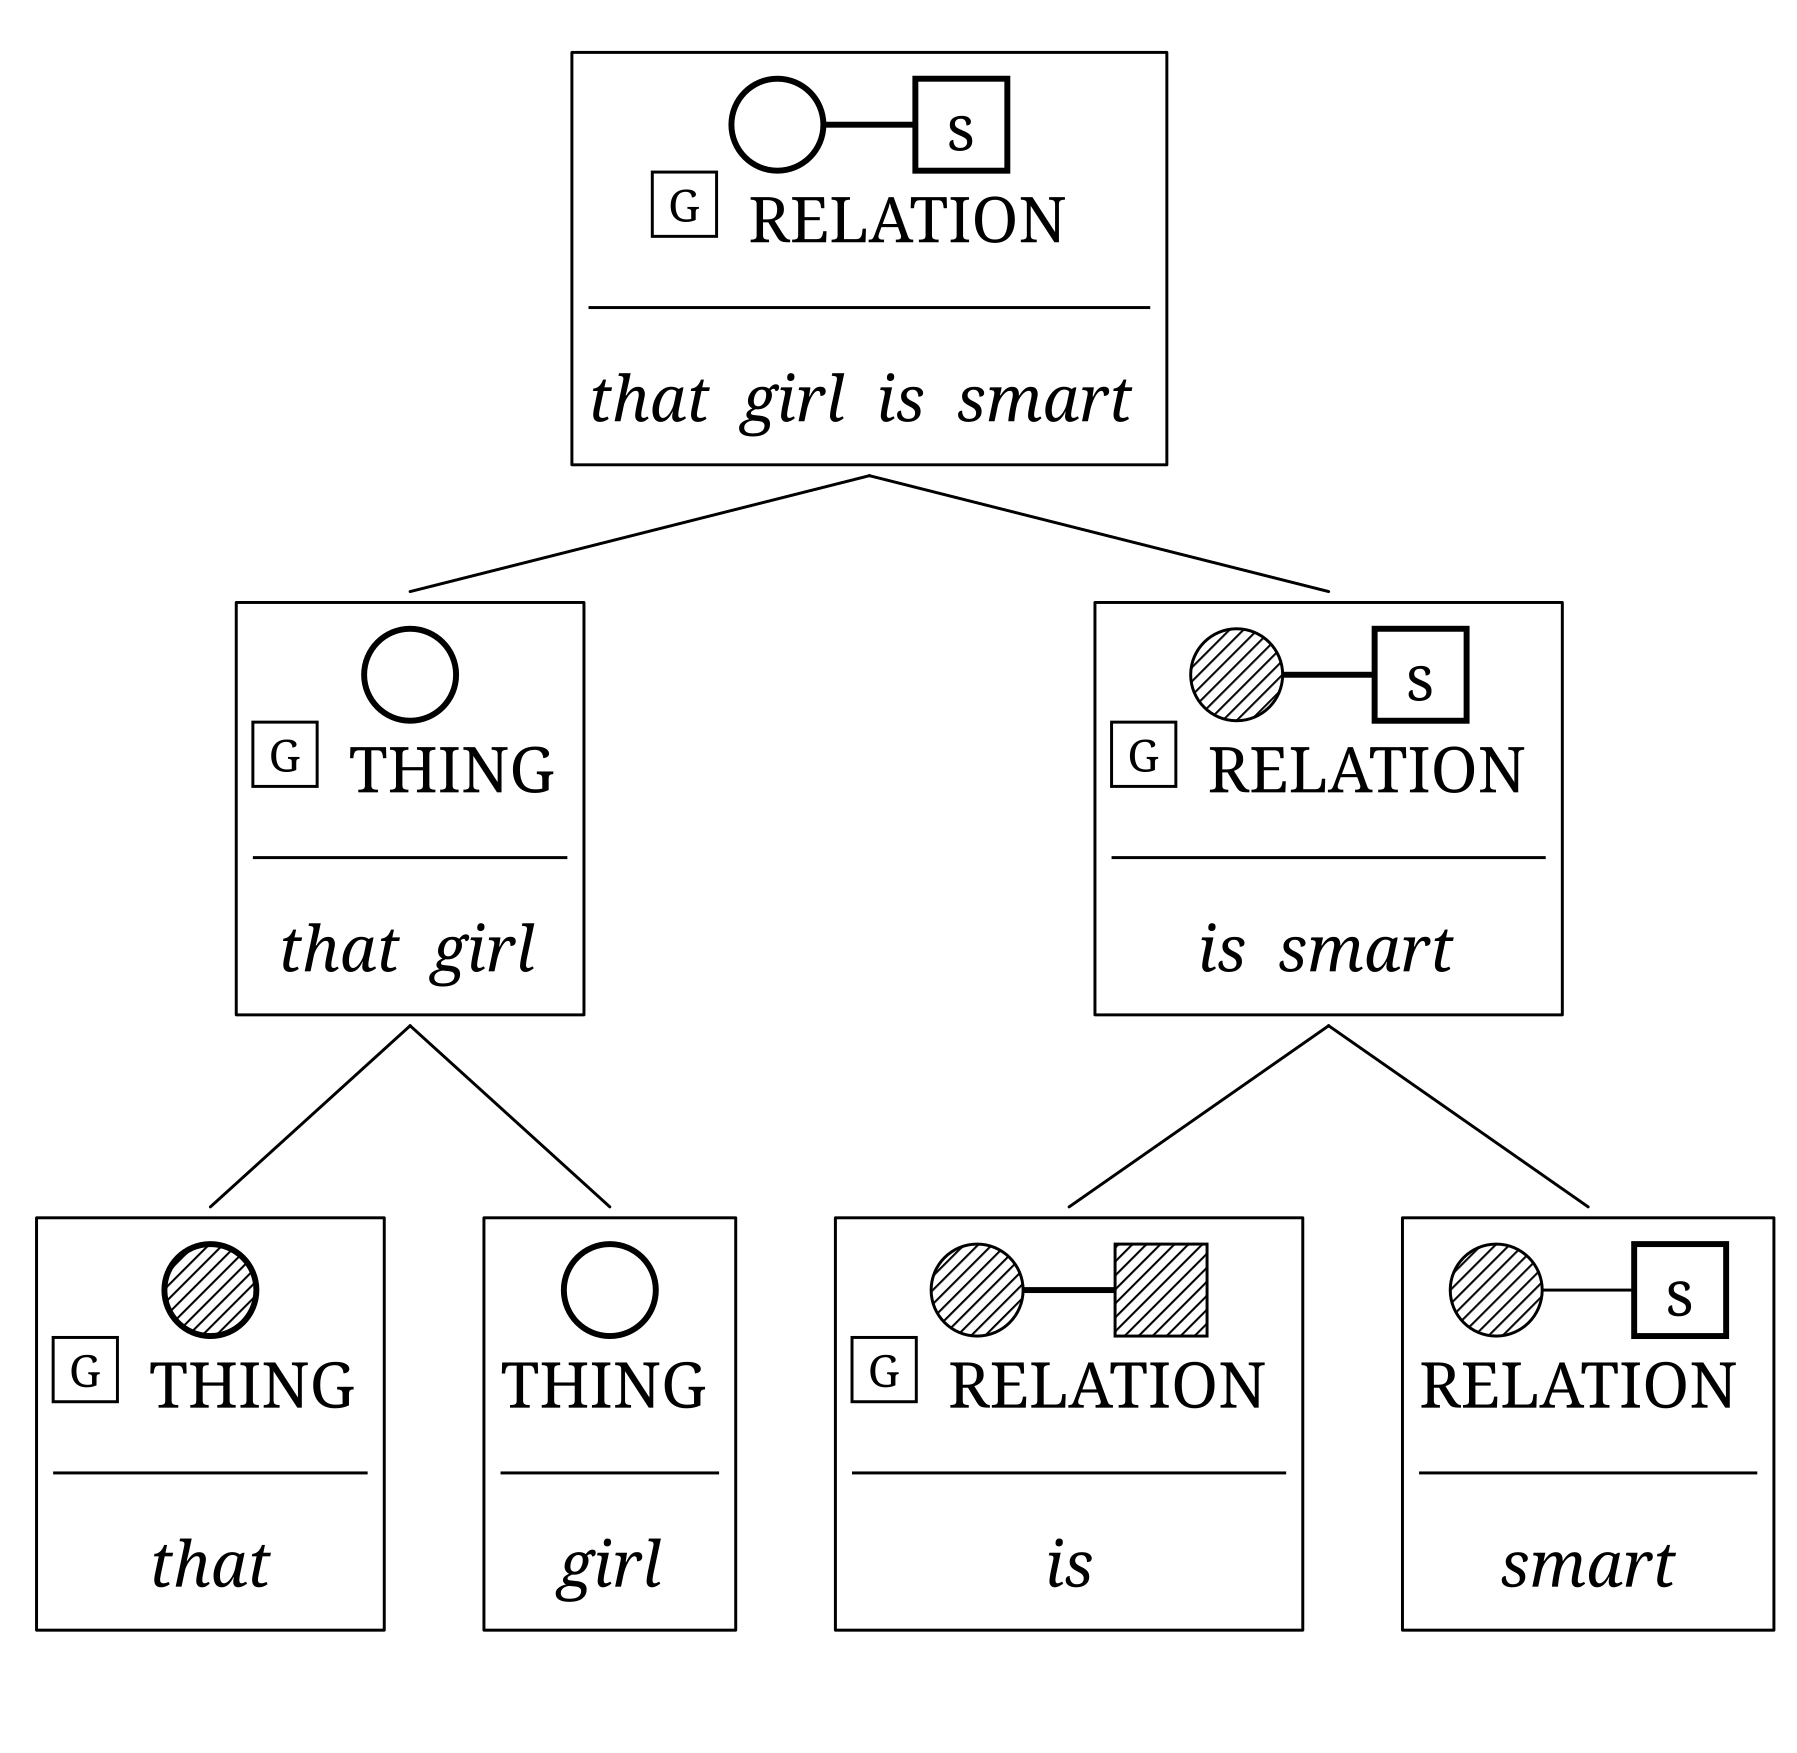
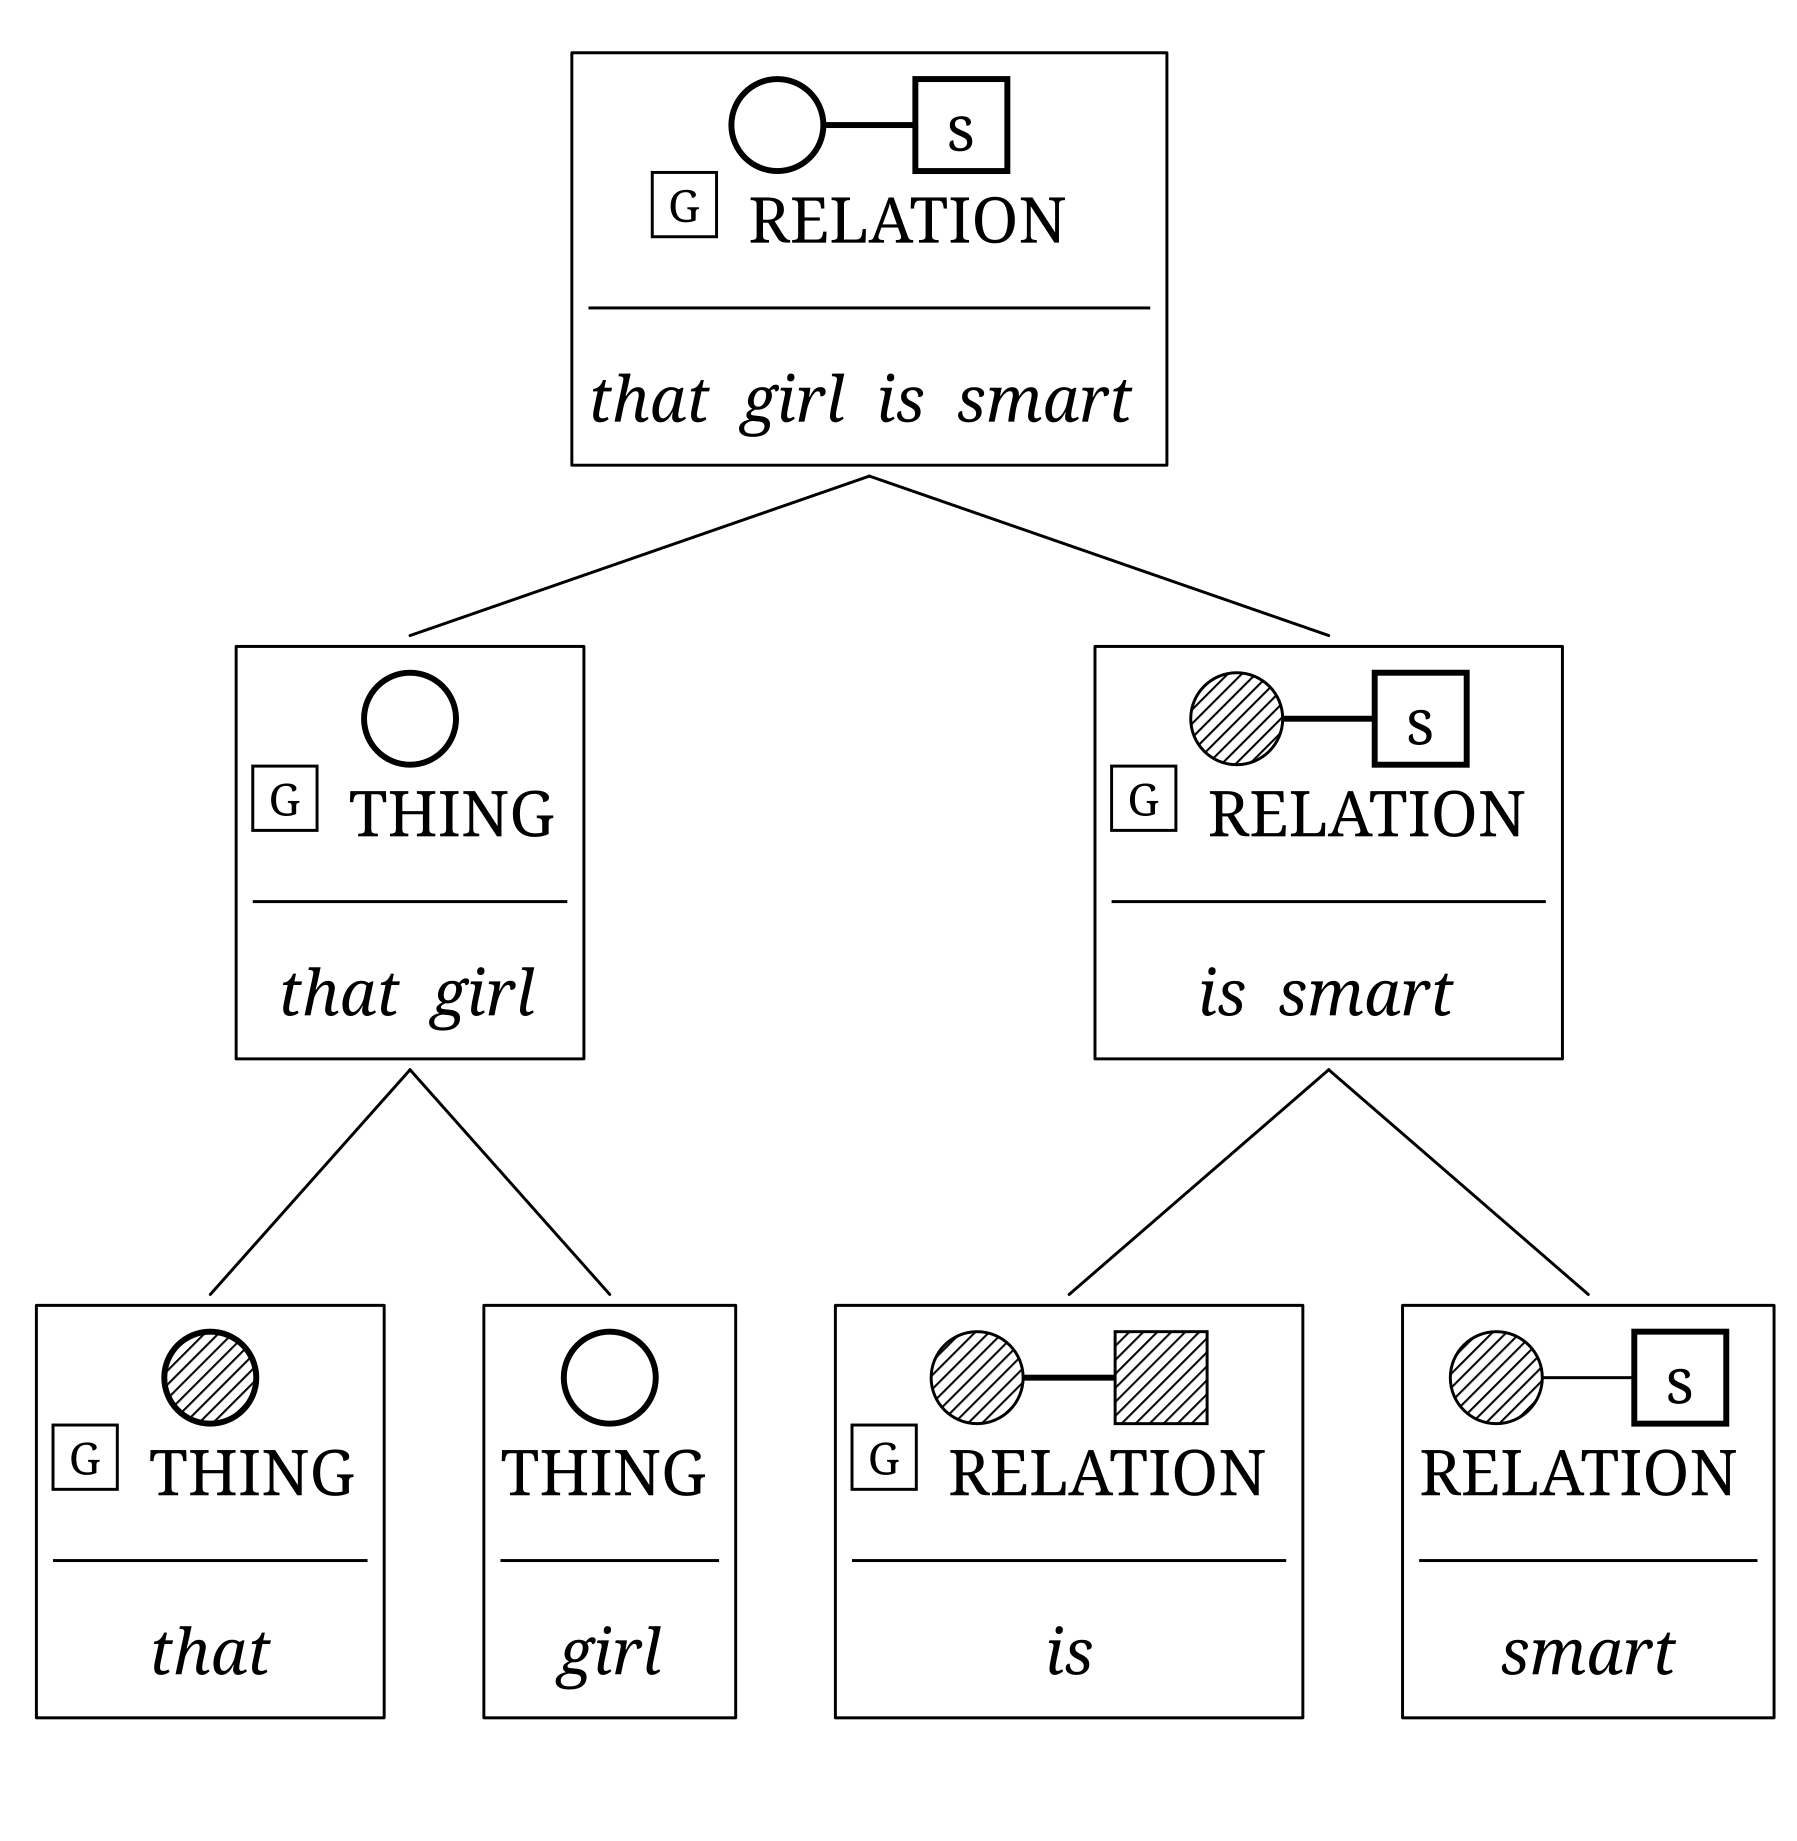
Connector height of examples changed

diff --git a/docs/_examples/014.md b/docs/_examples/014.md
@@ -6,7 +6,7 @@ category: "Cognitive Grammar"
 polyline: "off"
 symmetrization: "off"
 connector: "auto"
-connector_height: "1"
+connector_height: "1.5"
 linewidth: "1"
 hide_default_connectors: "off"
 font: "Noto Serif"

diff --git a/docs/_examples/001.md b/docs/_examples/001.md
@@ -6,7 +6,7 @@ category: "General"
 polyline: "off"
 symmetrization: "off"
 connector: "auto"
-connector_height: "1"
+connector_height: "0.5"
 linewidth: "1"
 hide_default_connectors: "off"
 font: "Noto Serif"
